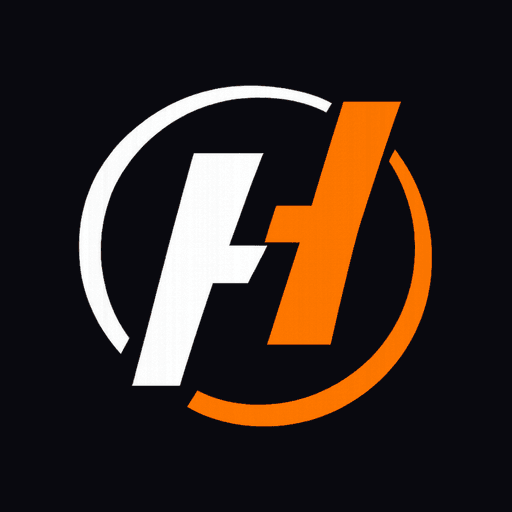
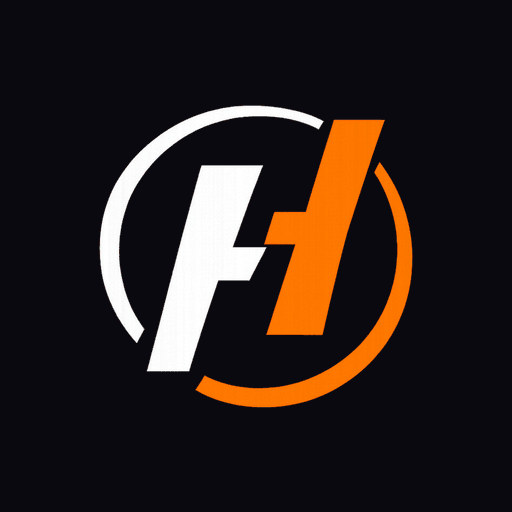
ajustes de imagenes

diff --git a/pwa-assets.config.ts b/pwa-assets.config.ts
@@ -10,7 +10,7 @@ export default defineConfig({
         background: '#09090F',
         fit: 'contain',
       },
-      padding: 0.3,
+      padding: 0.38,
     },
     apple: {
       sizes: [180],
